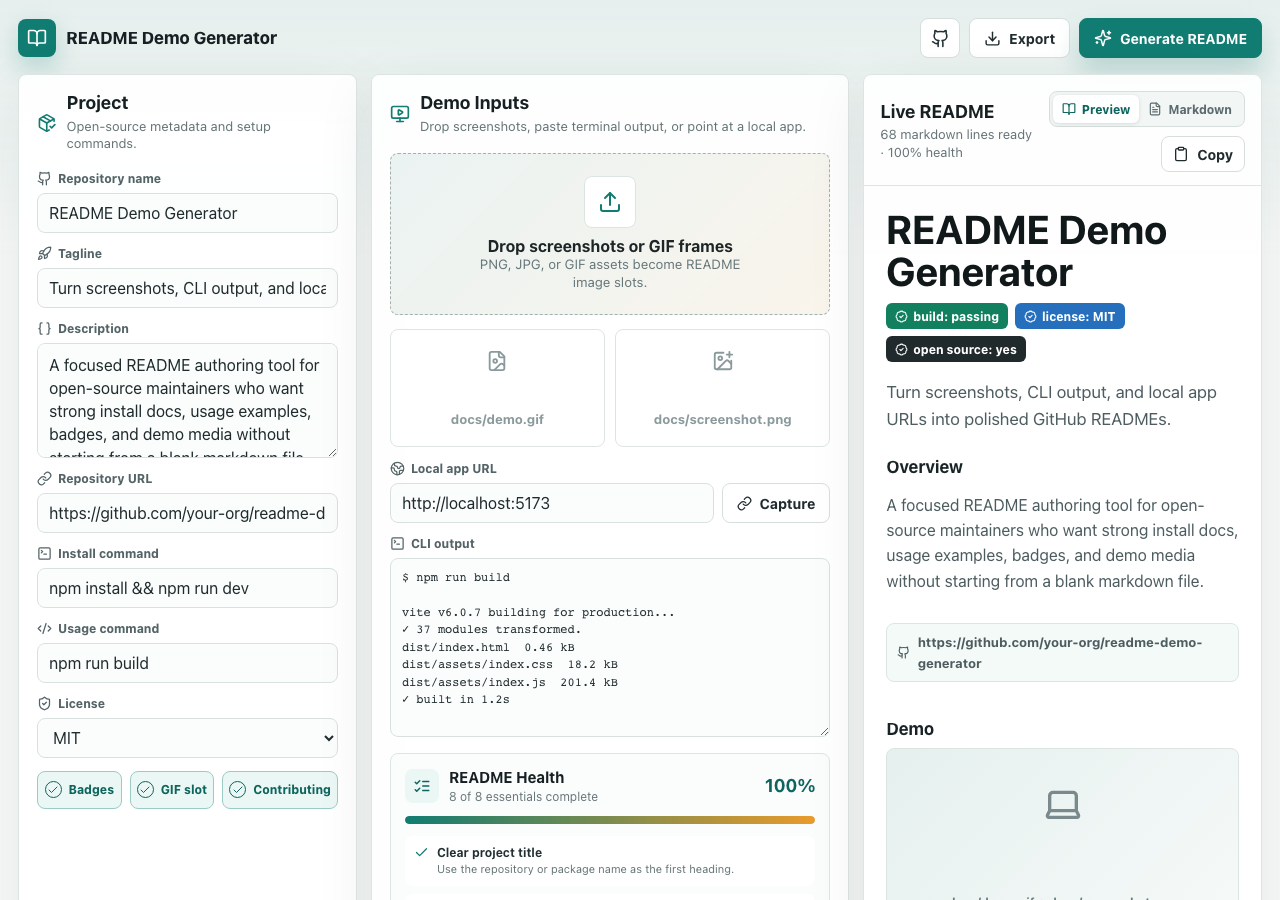
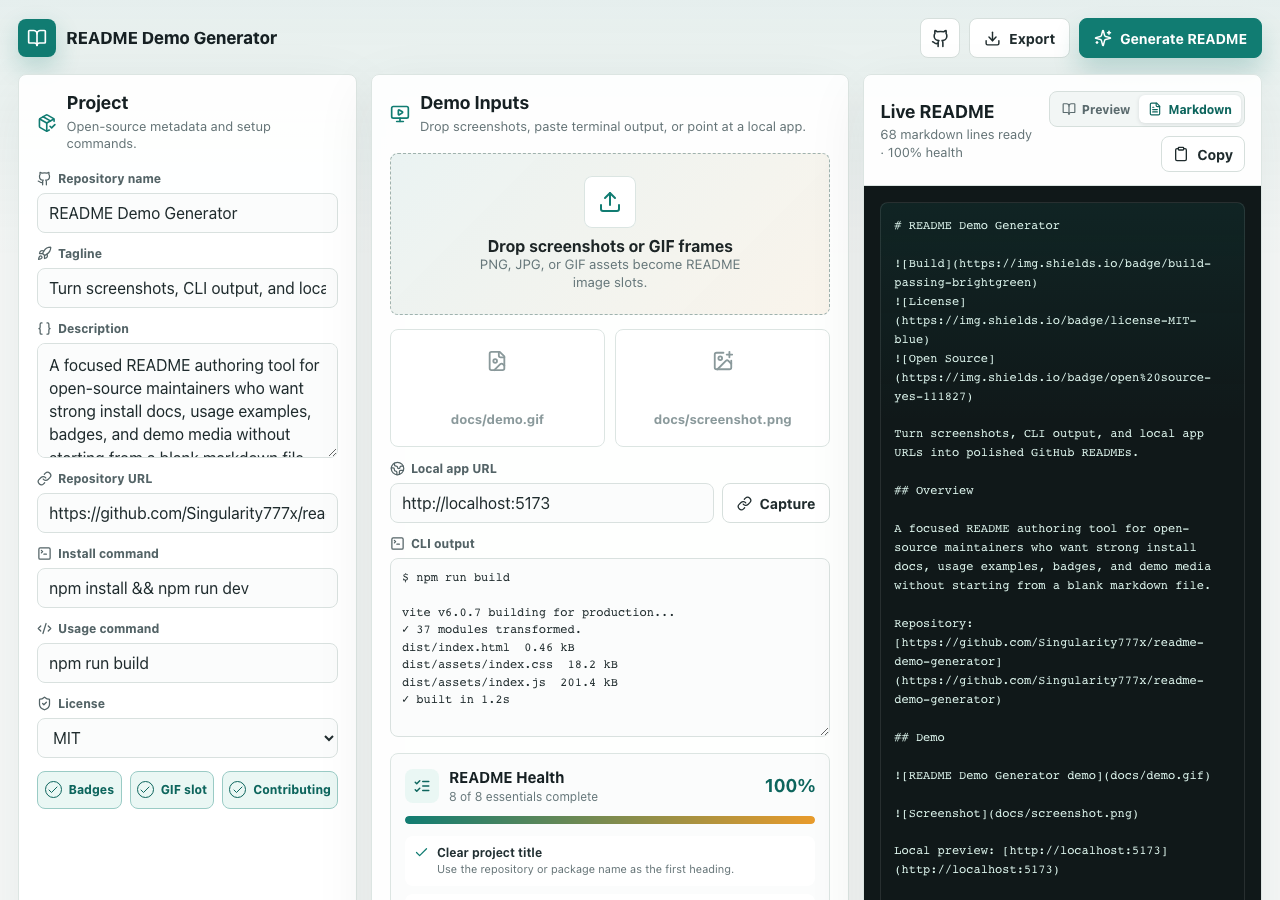
Point generator at published repository

diff --git a/src/main.tsx b/src/main.tsx
@@ -61,7 +61,7 @@ const initialState: ProjectState = {
   tagline: "Turn screenshots, CLI output, and local app URLs into polished GitHub READMEs.",
   description:
     "A focused README authoring tool for open-source maintainers who want strong install docs, usage examples, badges, and demo media without starting from a blank markdown file.",
-  repositoryUrl: "https://github.com/your-org/readme-demo-generator",
+  repositoryUrl: "https://github.com/Singularity777x/readme-demo-generator",
   installCommand: "npm install && npm run dev",
   usageCommand: "npm run build",
   cliOutput:
@@ -504,10 +504,10 @@ function App() {
               <h3>Overview</h3>
               <p>{project.description}</p>
               {project.repositoryUrl && (
-                <p className="repoLink">
+                <a className="repoLink" href={project.repositoryUrl} target="_blank" rel="noreferrer">
                   <Github size={15} />
                   {project.repositoryUrl}
-                </p>
+                </a>
               )}
               <h3>Demo</h3>
               <div className="previewMedia">

diff --git a/src/styles.css b/src/styles.css
@@ -578,6 +578,7 @@ select:focus {
   background: #f4faf8;
   font-size: 13px;
   font-weight: 720;
+  text-decoration: none;
   overflow-wrap: anywhere;
 }
 

diff --git a/README.md b/README.md
@@ -6,6 +6,8 @@
 
 Drop in screenshots, CLI output, or a local app URL, and generate a polished GitHub README with install steps, usage examples, GIF/image slots, and badges.
 
+Repository: [https://github.com/Singularity777x/readme-demo-generator](https://github.com/Singularity777x/readme-demo-generator)
+
 ## Demo
 
 ![README Demo Generator screenshot](docs/screenshot.png)
@@ -24,6 +26,8 @@ Drop in screenshots, CLI output, or a local app URL, and generate a polished Git
 ## Installation
 
 ```bash
+git clone https://github.com/Singularity777x/readme-demo-generator.git
+cd readme-demo-generator
 npm install
 ```
 